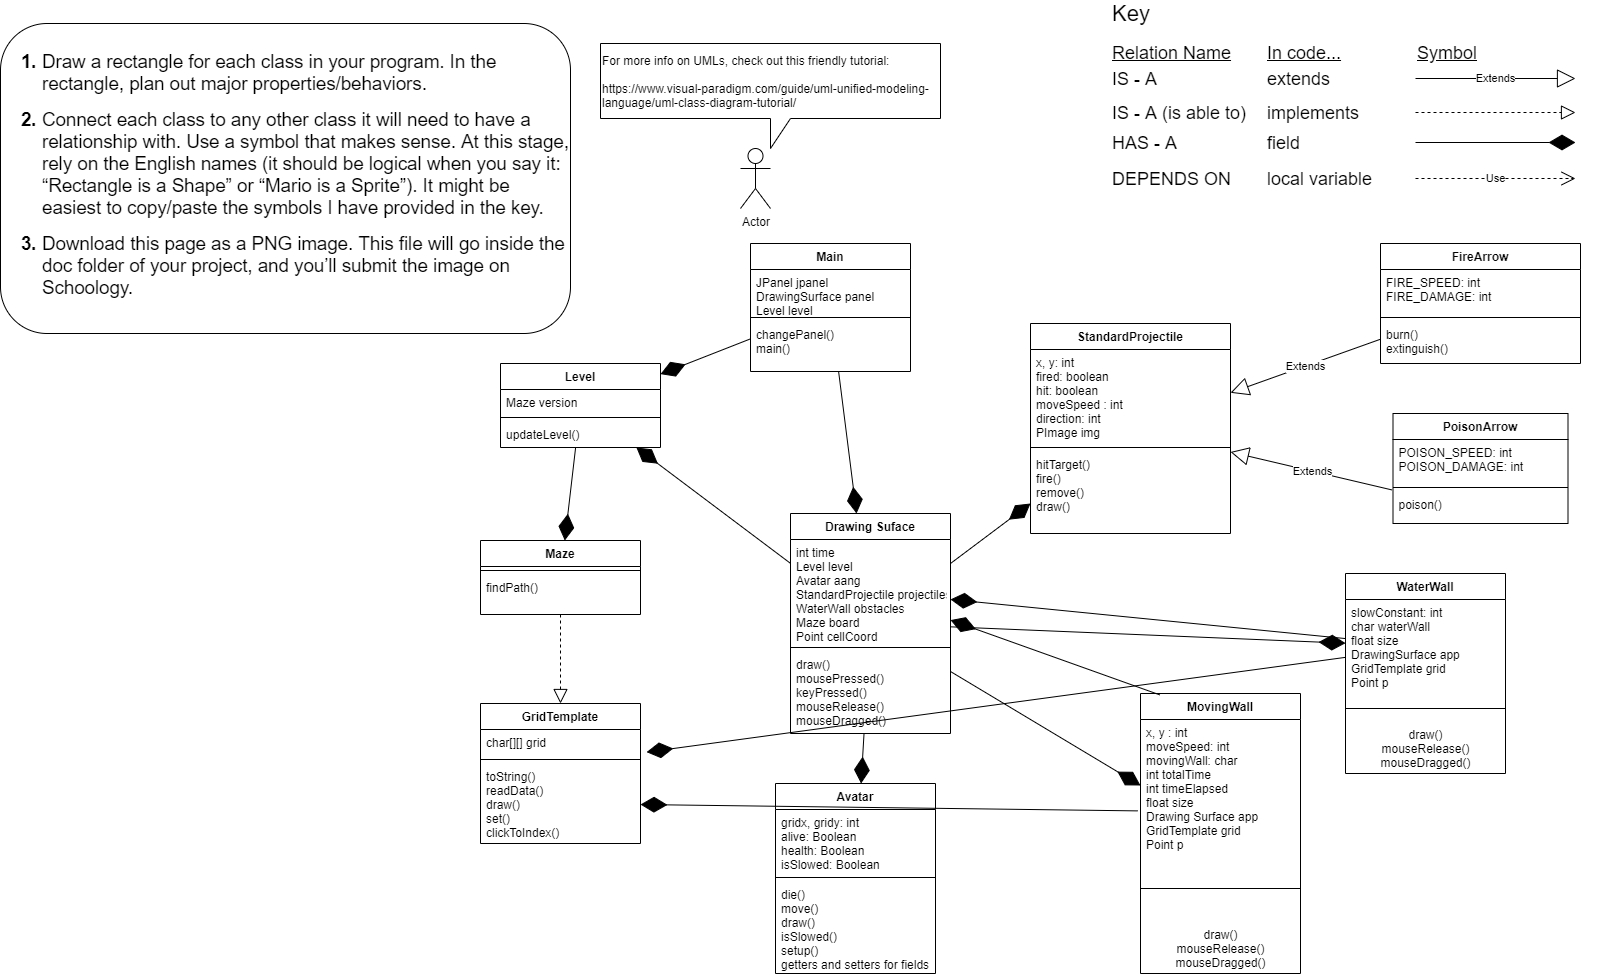
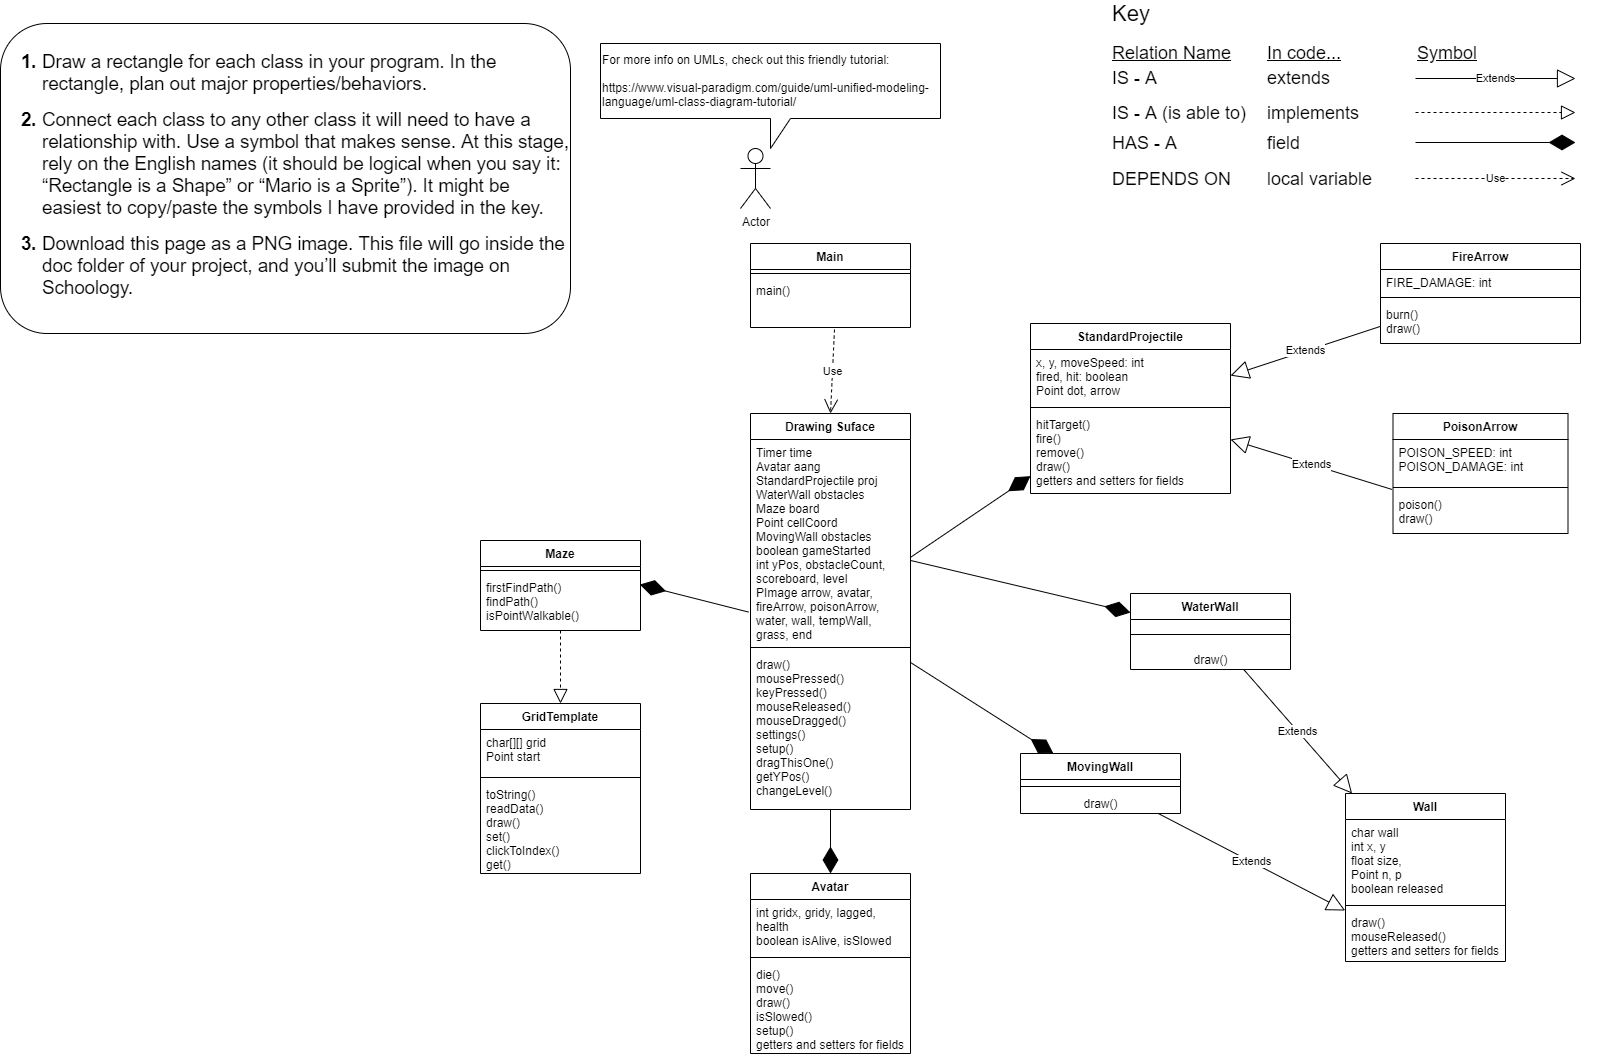
added updated UML

diff --git a/SAR/src/setupandcontrols/DrawingSurface.java b/SAR/src/setupandcontrols/DrawingSurface.java
@@ -38,7 +38,7 @@ public class DrawingSurface extends PApplet {
 	private boolean gameStarted;
 	private int yPos, obstacleCount, scoreboard;
 	public PImage arrow, avatar, fireArrow, poisonArrow;
-	PImage water, wall, tempWall, grass, end;
+	public PImage water, wall, tempWall, grass, end;
 	public int level;
 
 	/**

diff --git a/SAR/src/obstaclepackage/MovingWall.java b/SAR/src/obstaclepackage/MovingWall.java
@@ -23,9 +23,8 @@ public class MovingWall extends Wall{
 		app.fill(150, 110, 110);
 		size = (float) (app.height / 20.0); 
 		if (!released) {
-			app.square(x, y, size);
+			app.square(getX(), getY(), size);
 		}
-		//		super.draw(app);
 		app.stroke(0, 0, 0);
 	}
 

diff --git a/SAR/src/projectiles/StandardProjectile.java b/SAR/src/projectiles/StandardProjectile.java
@@ -18,7 +18,8 @@ import processing.core.PImage;
 public class StandardProjectile {
 	
 	public int x, y;
-	public boolean fired, hit;
+	private boolean fired;
+	public boolean hit;
 	public int moveSpeed;
 	private Point dot, arrow;
 	

diff --git a/SAR/src/obstaclepackage/Wall.java b/SAR/src/obstaclepackage/Wall.java
@@ -8,8 +8,8 @@ import setupandcontrols.GridTemplate;
 public class Wall {
 
 	char wall;
-	int x;
-	int y;
+	private int x;
+	private int y;
 	float size;
 	Point p;
 	Point n;
